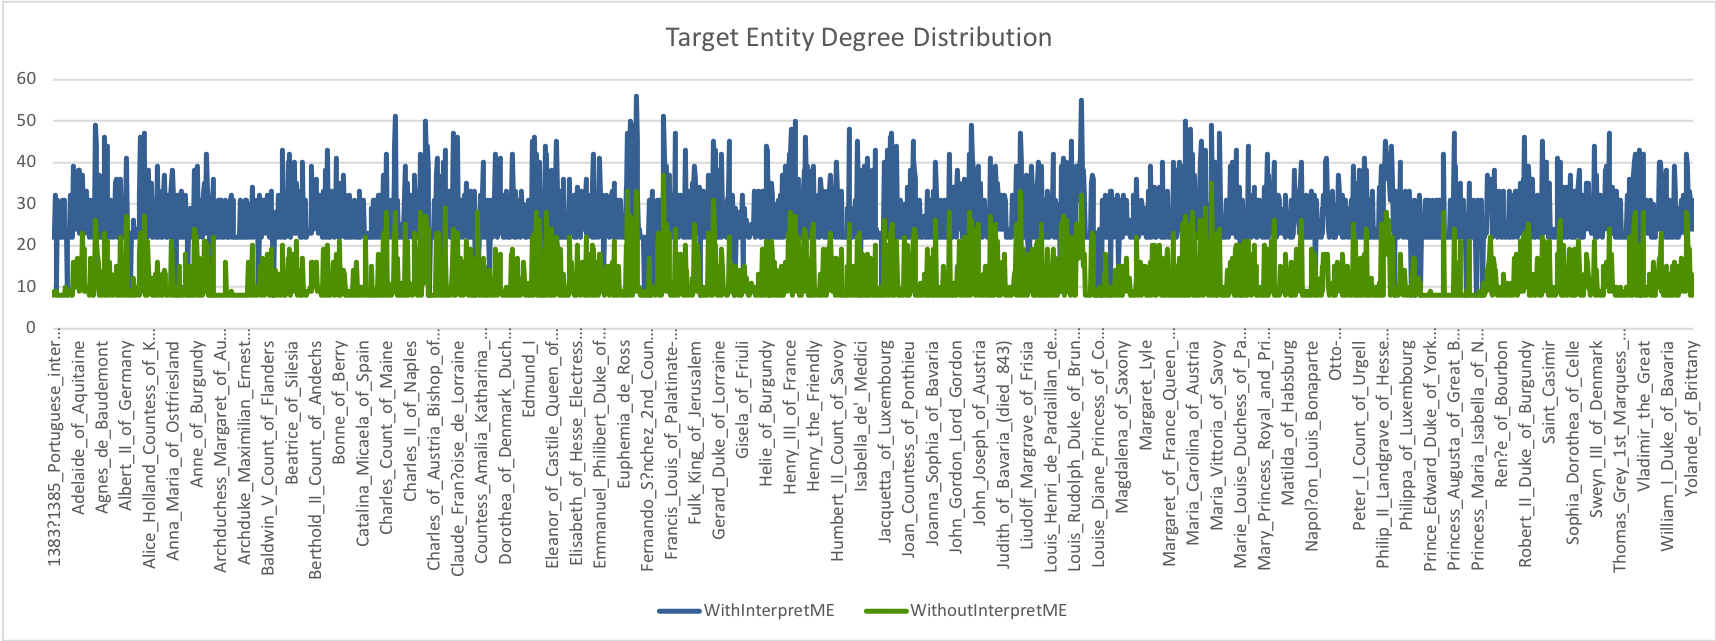
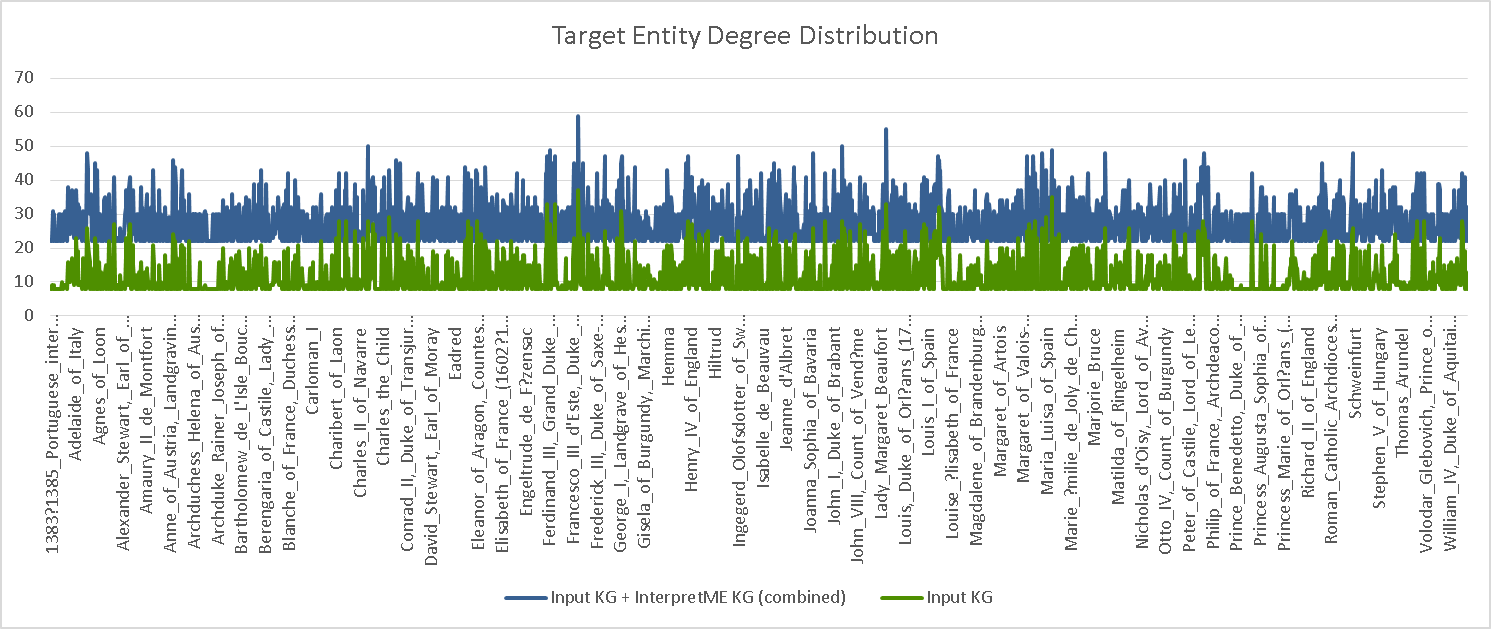
updated degree distribution

diff --git a/README.md b/README.md
@@ -130,7 +130,7 @@ The above figure shows the list of relevant features in random forest; most impo
 ![Target Entity Degree Distribution](https://raw.githubusercontent.com/SDM-TIB/InterpretME/main/images/DegreeDistribution.png "Target Entity Degree Distribution")
 
 The average number of neighbours in the original KG was 11.39 (std 5.06).
-With the metadata traced by InterpretME, the number increased to 26.99 (std 6.94).
+With the metadata traced by InterpretME, the number increased to 27.19 (std 6.13).
 The increase in the average number of neighbours shows that InterpretME enhances the interpretability of the target entities.
 The original KG is available as a [public SPARQL endpoint](https://labs.tib.eu/sdm/InterpretME-og/sparql).
 The original data enhanced with the metadata traced by InterpretME is also publicly available as a [SPARQL endpoint](https://labs.tib.eu/sdm/InterpretME-wog/sparql).
